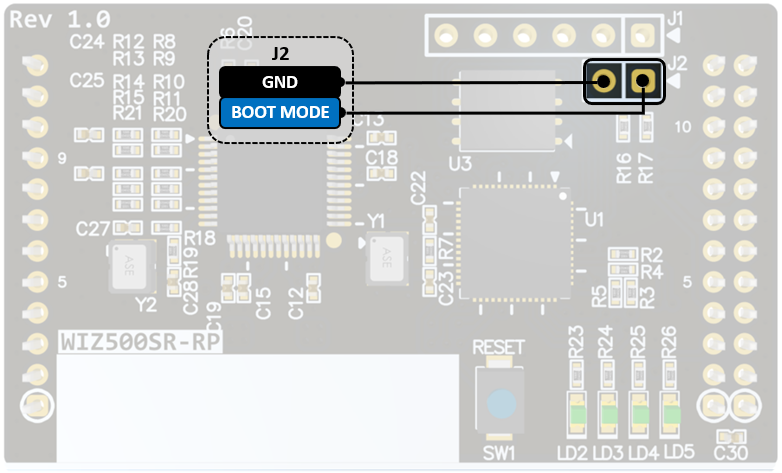
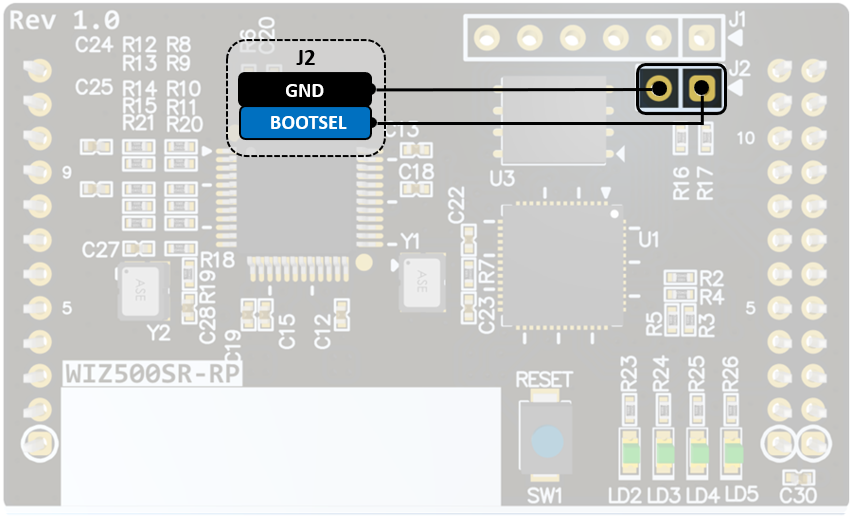
update datasheet.md

diff --git a/docs/Product/S2E-Module/WIZ505SR-RP/Datasheet.md b/docs/Product/S2E-Module/WIZ505SR-RP/Datasheet.md
@@ -92,6 +92,7 @@ Dure Core</td>
 <td>133Mhz maximum frequency<br />
 264KB on-chip SRAM<br />
 16KB on-chip ROM<br />
+2MB External ROM<br />
 2 × UART, 2 × SPI controllers, 2 × I2C controllers, 16 × PWM channels<br />
 1 × USB 1.1 controller and PHY, with host and device support<br />
 8 × Programmable I/O (PIO) state machines for custom peripheral support</td>
@@ -137,6 +138,7 @@ Flow control: None, RTS / CTS, XON / XOFF</td>
 </tr>
 </tbody>
 </table>
+
 
 
 
@@ -258,8 +260,8 @@ When Module working well Blinking every 1.0s </td>
 
 | H/W version | Type | Filetype | Download Link                                                | Remarks |
 | ----------- | ---- | -------- | ------------------------------------------------------------ | ------- |
-| 1.0         | TTL  | Altium   | ![](/img/products/w5500/w5500_evb/icons/download.png) <a href="/img/products/s2e_module/WIZ505SR-RP/HW/Schematic & Artwork/WIZ505SR-RP_SCH_V100.ZIP" target="_blank">Download</a> | \-      |
-| :::         | :::  | PDF      | ![](/img/products/w5500/w5500_evb/icons/download.png) <a href="/img/products/s2e_module/WIZ505SR-RP/HW/Schematic & Artwork/WIZ505SR-RP_SCH_V100.PDF" target="_blank">Download</a> | \-      |
+| 1.0         | TTL  | Altium   | ![](/img/products/w5500/w5500_evb/icons/download.png) <a href="/img/products/s2e_module/WIZ505SR-RP/HW/Schematic & Artwork/WIZ505SR-RP_SCH_V100.zip" target="_blank">Download</a> | \-      |
+| :::         | :::  | PDF      | ![](/img/products/w5500/w5500_evb/icons/download.png) <a href="/img/products/s2e_module/WIZ505SR-RP/HW/Schematic & Artwork/WIZ505SR-RP_SCH_V100.pdf" target="_blank">Download</a> | \-      |
 
 ### WIZ5xxSR-RP-EVB (TBD)
 
@@ -277,7 +279,7 @@ When Module working well Blinking every 1.0s </td>
 | H/W version | Type | Filetype | Download Link                                                | Remarks |
 | ----------- | ---- | -------- | ------------------------------------------------------------ | ------- |
 | 1.0         | TTL  | Excel    | ![](/img/products/w5500/w5500_evb/icons/download.png) <a href="/img/products/s2e_module/WIZ505SR-RP/HW/PartList/WIZ505SR-RP_PL_V100.xlsx" target="_blank">Download</a> |         |
-| :::         | :::  | PDF      | ![](/img/products/w5500/w5500_evb/icons/download.png) <a href="/img/products/s2e_module/WIZ505SR-RP/HW/PartList/WIZ505SR-RP_PL_V100.PDF" target="_blank">Download</a> |         |
+| :::         | :::  | PDF      | ![](/img/products/w5500/w5500_evb/icons/download.png) <a href="/img/products/s2e_module/WIZ505SR-RP/HW/PartList/WIZ505SR-RP_PL_V100.pdf" target="_blank">Download</a> |         |
 
 ### WIZ5xxSR-RP-EVB (TBD)
 
@@ -465,7 +467,7 @@ Active Low</td>
 <td>6</td>
 <td>FACT RST</td>
 <td>Factory Reset Signal input<br />
-Drive this pin Low 5.0s Module will be Factory Reset </td>
+Drive this pin to Low for at least 5.0s then WIZ505SR-RP will be reset to factory settings</td>
 </tr>
 <tr class="odd">
 <td>7</td>
@@ -477,8 +479,9 @@ Drive this pin Low 5.0s Module will be Factory Reset </td>
 <td>HW_TRIG</td>
 <td>HW TRIG signal input<br />
 Active Low<br />
-Low : AT command<br />
-High : Gateway mode</td>
+High : Gateway Mode<br />
+Low : AT Command Mode<br />
+Changes will be reflected after reset</td>
 </tr>
 <tr class="odd">
 <td>9</td>
@@ -489,7 +492,8 @@ High : Gateway mode</td>
 <td>10</td>
 <td>BOOTSEL</td>
 <td>Active Low<br />
-Drive this pin Low and Power on(or reset) then RP2040 will be USB Mass Storage Device mode</td>
+Drive this pin Low and reset(or power on),then RP2040 will enter USB Mass Storage Device mode<br />
+Then RP2040 can be re-programming</td>
 </tr>
 <tr class="odd">
 <td>11</td>
@@ -513,6 +517,7 @@ Drive this pin Low and Power on(or reset) then RP2040 will be USB Mass Storage D
 </tr>
 </tbody>
 </table>
+
 
 
 ### 1x6 UART0, SWD (J1)
@@ -546,12 +551,12 @@ Drive this pin Low and Power on(or reset) then RP2040 will be USB Mass Storage D
 <tr class="even">
 <td>4</td>
 <td>SWCLK</td>
-<td>SWD CLK</td>
+<td>SWDCLK</td>
 </tr>
 <tr class="odd">
 <td>5</td>
 <td>SWDIO</td>
-<td>SWD IO</td>
+<td>SWDIO</td>
 </tr>
 <tr class="even">
 <td>6</td>
@@ -582,7 +587,8 @@ Drive this pin Low and Power on(or reset) then RP2040 will be USB Mass Storage D
 <td>1</td>
 <td>BOOTMODE</td>
 <td>Boot Mode Select signal input<br />
-Active Low : Enter Boot mode</td>
+Active Low<br />
+Drive this pin low and reset(or power on),then WIZ505SR-RP will enter Boot mode</td>
 </tr>
 <tr class="even">
 <td>2</td>
@@ -591,6 +597,7 @@ Active Low : Enter Boot mode</td>
 </tr>
 </tbody>
 </table>
+
 **J3 is not mounted connector**
 
 
@@ -611,7 +618,9 @@ Active Low : Enter Boot mode</td>
 
 <img src="/img/products/s2e_module/WIZ505SR-RP/HW/Document/WIZ505SR-RP (BOOT).png" width="800" />
 
--   Push SW2 and Power on(or reset) then RP2040 will be USB Mass Storage Device mode 
+- Push SW2 and reset(or power on),then RP2040 will enter USB Mass Storage Device mode
+
+  Then RP2040 can be re-programming
 
 
 

diff --git a/docs/Product/S2E-Module/WIZ500SR-RP/Datasheet.md b/docs/Product/S2E-Module/WIZ500SR-RP/Datasheet.md
@@ -33,8 +33,7 @@ via Ethernet network.**
   - Serial signals(UART or RS-232C)
     - WIZ500SR-RP module(UART): TXD, RXD, RTS, CTS
     - WIZ5xxSR-RP-EVB(RS-232C): TXD, RXD, RTS, CTS
-    - Optional DTR/DSR signals supported (Status pins or DTR/DSR pins
-      selectable)
+    - Optional DTR/DSR signals supported
   - WIZ500SR-RP has UART x 2, SWD x 1, Ethernet x 1
     - UART0, SWD for Debug and UART1, Ethernet for Data transceive
   - Separate **Data UART** and **Debug UART** port
@@ -91,6 +90,7 @@ Dure Core</td>
 <td>133Mhz maximum frequency<br />
 264KB on-chip SRAM<br />
 16KB on-chip ROM<br />
+2MB External ROM<br />
 2 × UART, 2 × SPI controllers, 2 × I2C controllers, 16 × PWM channels<br />
 1 × USB 1.1 controller and PHY, with host and device support<br />
 8 × Programmable I/O (PIO) state machines for custom peripheral support</td>
@@ -136,6 +136,7 @@ Flow control: None, RTS / CTS, XON / XOFF</td>
 </tr>
 </tbody>
 </table>
+
 
 
 
@@ -553,7 +554,8 @@ Low : Disconnect</td>
 <td>4</td>
 <td>BOOTSEL</td>
 <td>Active Low<br />
-Drive this pin Low and Power on(or reset) then RP2040 will be USB Mass Storage Device mode</td>
+Drive this pin Low and reset(or power on),then RP2040 will enter USB Mass Storage Device mode<br />
+Then RP2040 can be re-programming</td>
 </tr>
 <tr class="odd">
 <td>5</td>
@@ -569,20 +571,22 @@ Drive this pin Low and Power on(or reset) then RP2040 will be USB Mass Storage D
 <td>7</td>
 <td>BOOT MODE</td>
 <td>Boot Mode Select signal input<br />
-Active Low : Enter Boot mode</td>
+Active Low<br />
+Drive this pin low and reset(or power on),then WIZ500SR-RP will enter Boot mode</td>
 </tr>
 <tr class="even">
 <td>8</td>
 <td>FACT_RST</td>
 <td>Factory Reset Signal input<br />
-Drive this pin Low 5.0s Module will be Factory Reset</td>
+Drive this pin to Low for at least 5.0s then WIZ500SR-RP will be reset to factory settings</td>
 </tr>
 <tr class="odd">
 <td>9</td>
 <td>HW_TRIG</td>
 <td>Active Low<br />
 High : Gateway Mode<br />
-Low : AT Command Mode</td>
+Low : AT Command Mode<br />
+Changes will be reflected after reset</td>
 </tr>
 <tr class="even">
 <td>10</td>
@@ -601,6 +605,7 @@ Low : AT Command Mode</td>
 </tr>
 </tbody>
 </table>
+
 
 
 ### 1x6 UART0, SWD (J1)
@@ -634,12 +639,12 @@ Low : AT Command Mode</td>
 <tr class="even">
 <td>4</td>
 <td>SWCLK</td>
-<td>SWD CLK</td>
+<td>SWDCLK</td>
 </tr>
 <tr class="odd">
 <td>5</td>
 <td>SWDIO</td>
-<td>SWD IO</td>
+<td>SWDIO</td>
 </tr>
 <tr class="even">
 <td>6</td>
@@ -670,8 +675,8 @@ Low : AT Command Mode</td>
 <td>1</td>
 <td>BOOTSEL</td>
 <td>Active Low<br />
-Drive this pin Low and Power on(or reset) then RP2040 will be USB Mass Storage Device mode</td>
-</tr>
+Drive this pin Low and reset(or power on),then RP2040 will enter USB Mass Storage Device mode<br />
+Then RP2040 can be re-programming</td>
 <tr class="even">
 <td>2</td>
 <td>GND</td>

diff --git a/docs/Product/S2E-Module/WIZ510SR-RP/Datasheet.md b/docs/Product/S2E-Module/WIZ510SR-RP/Datasheet.md
@@ -87,6 +87,7 @@ Dure Core</td>
 <td>133Mhz maximum frequency<br />
 264KB on-chip SRAM<br />
 16KB on-chip ROM<br />
+2MB External ROM<br />
 2 × UART, 2 × SPI controllers, 2 × I2C controllers, 16 × PWM channels<br />
 1 × USB 1.1 controller and PHY, with host and device support<br />
 8 × Programmable I/O (PIO) state machines for custom peripheral support</td>
@@ -133,6 +134,7 @@ Flow control: None, RTS / CTS </td>
 </tr>
 </tbody>
 </table>
+
 
 
 
@@ -518,12 +520,12 @@ When Module working well Blinking every 1.0s </td>
 <tr class="even">
 <td>4</td>
 <td>SWCLK</td>
-<td>SWD CLK</td>
+<td>SWDCLK</td>
 </tr>
 <tr class="odd">
 <td>5</td>
 <td>SWDIO</td>
-<td>SWD IO</td>
+<td>SWDIO</td>
 </tr>
 <tr class="even">
 <td>6</td>
@@ -532,6 +534,7 @@ When Module working well Blinking every 1.0s </td>
 </tr>
 </tbody>
 </table>
+
 
 -   J1 is not mounted
 
@@ -554,7 +557,8 @@ When Module working well Blinking every 1.0s </td>
 <td>1</td>
 <td>BOOT MODE</td>
 <td>Boot Mode Select signal input<br />
-Active Low : Enter Boot mode</td>
+Active Low<br />
+Drive this pin low and reset(or power on),then WIZ510SR-RP will enter Boot mode</td>
 </tr>
 <tr class="even">
 <td>2</td>
@@ -563,6 +567,7 @@ Active Low : Enter Boot mode</td>
 </tr>
 </tbody>
 </table>
+
 -   J3 is not mounted
 
 
@@ -573,7 +578,7 @@ Active Low : Enter Boot mode</td>
 
 | Pin Number | Signal   | Description                                                  |
 | ---------- | -------- | ------------------------------------------------------------ |
-| 1          | FACT RST | Factory Reset Signal input<br />Drive this pin Low 5.0s Module will be Factory Reset |
+| 1          | FACT RST | Factory Reset Signal input<br />Drive this pin to Low for at least 5.0s then WIZ510SR-RP will be reset to factory settings |
 | 2          | GND      | System Ground                                                |
 
 -   J4 is not mounted
@@ -591,13 +596,14 @@ Active Low : Enter Boot mode</td>
 <img src="/img/products/s2e_module/WIZ510SR-RP/HW/Document/WIZ510SR-RP (Reset).png" width="800" />
 
 -   When Push SW1, WIZ510SR-RP will be reset
--   
 
 ### BOOTSEL Switch (SW2)
 
 <img src="/img/products/s2e_module/WIZ510SR-RP/HW/Document/WIZ510SR-RP (BOOTSEL).png" width="800" />
 
--   Push SW2 and Power on(or reset) then RP2040 will be USB Mass Storage Device mode 
+- Push SW2 and reset(or power on),then RP2040 will enter USB Mass Storage Device mode
+
+  Then RP2040 can be re-programming
 
 
 
@@ -607,6 +613,7 @@ Active Low : Enter Boot mode</td>
 
 -   Slide SW3 Left : AT command
 -   Slide SW3 Right : Gateway Mode
+-   Changes will be reflected after reset
 
 ------
 

diff --git a/docs/Product/S2E-Module/S2E_Module.md b/docs/Product/S2E-Module/S2E_Module.md
@@ -82,7 +82,10 @@ interfaces.
 | [WIZ125SR](WIZ125SR/wiz125sr.md)<br />not recommended for new design | ![WIZ125SR](/img/products/wiz125sr/125.jpg) | 2xRS32 DB-9 | RJ-45 | N/A | 0 ~ 70 | 60x89x18 | N/A |
 | [WIZ140SR](WIZ140SR/wiz140sr.md) | ![WIZ140SR](/img/products/wiz140sr/wiz140sr-web-2.jpg) | 4xTTL(3.3V) | Transformer | 1x14 2.5mm | 0 ~ 70 | 48x36x16 | [	WIZ140SR-EVB](WIZ140SR/wiz140sr-evb.md) |
 | [WIZ145SR](WIZ145SR/wiz145sr.md) | ![WIZ145SR](/img/products/wiz145sr/wiz145sr-2-300.jpg) | 4xTTL(3.3V) | RJ-45 | 1x14, 2x14 | 0 ~ 70 | 48x61x25 | [WIZ145SR-EVB](WIZ145SR/wiz145sr-evb.md) |
-| [W7100A-S2E](./../Pre-programmed-MCU/W7500P-S2E/W7500-P-S2E-EN.md) | | Serial to Ethernet Chip (WIZ107SR or WIZ108SR firmware programmed) |
+| [W7100A-S2E](./../Pre-programmed-MCU/W7500P-S2E/W7500-P-S2E-EN.md) | | Serial to Ethernet Chip (WIZ107SR or WIZ108SR firmware programmed) ||||||
+| [WIZ500SR-RP](WIZ500SR-RP/Datasheet.md) | | 1xTTL(3.3V) |Transformer|1x12<br />2.0mm<br />Pin Header  x 3ea|-20 ~ 85|||
+| [WIZ505SR-RP](WIZ505SR-RP/Datasheet.md) | | 1xTTL(3.3V) |RJ-45|2x7<br />2.54mm<br />Pin Header<br />x 1ea|-20 ~ 85|||
+| [WIZ510SR-RP](WIZ510SR-RP/Datasheet.md) | | 1xTTL(3.3V) |RJ-45|1x4<br />2.54mm<br />Pin Header<br />x 1ea|-20 ~ 85|||
 
 -----
 
